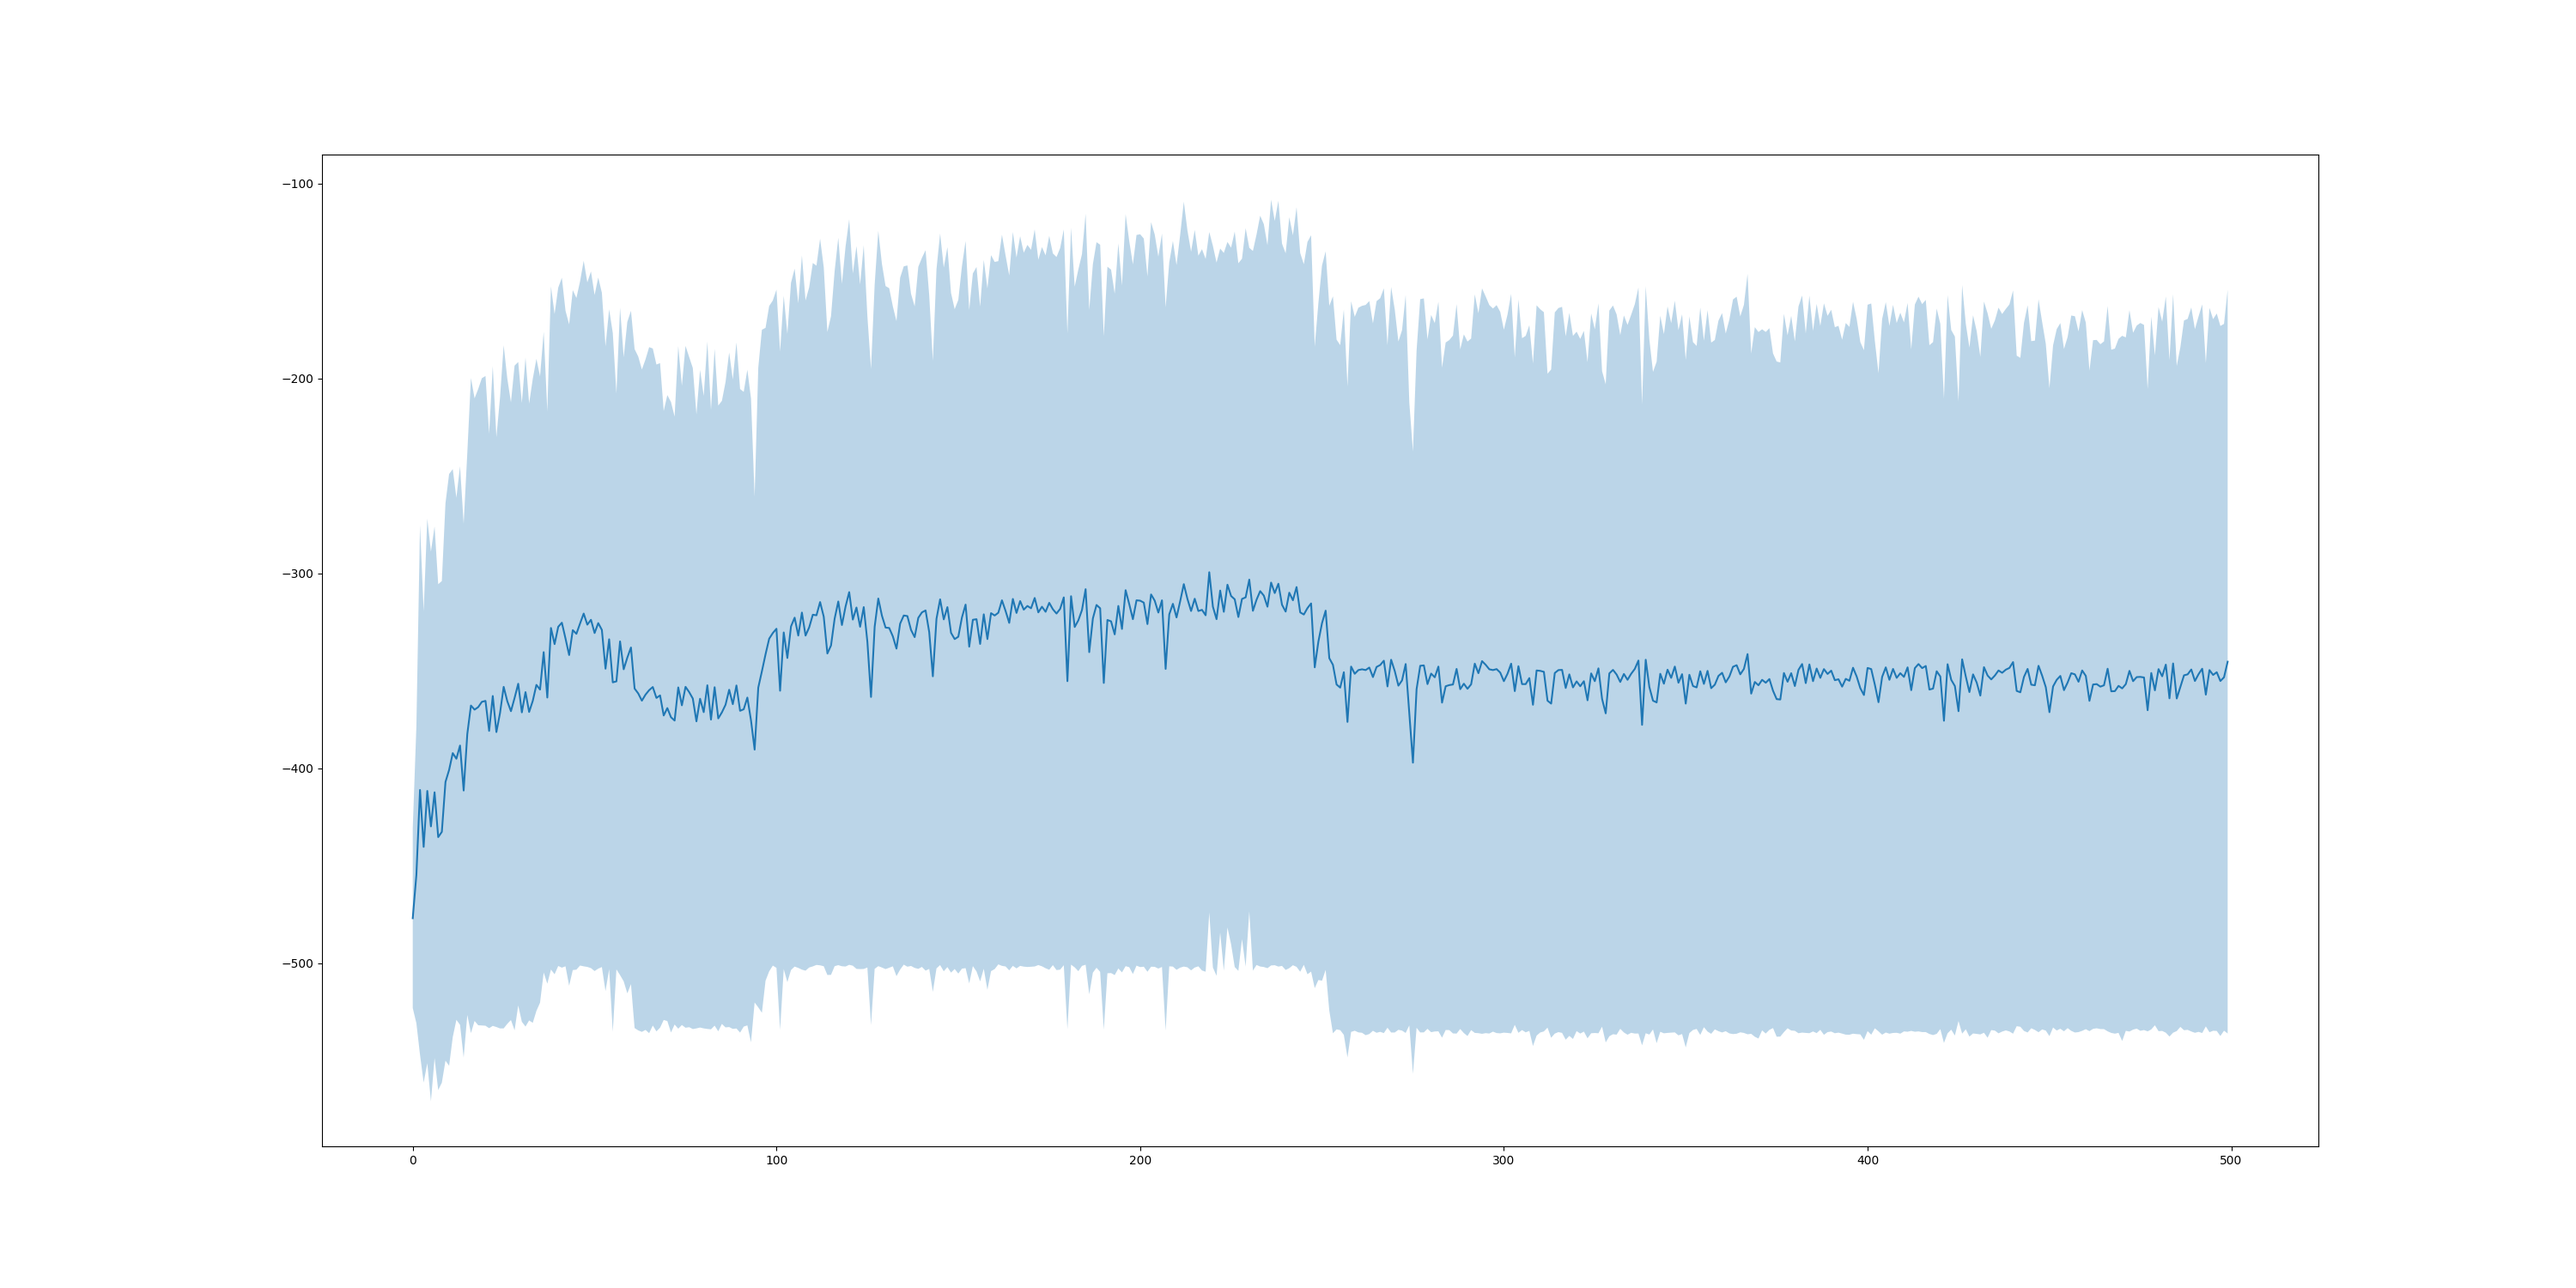
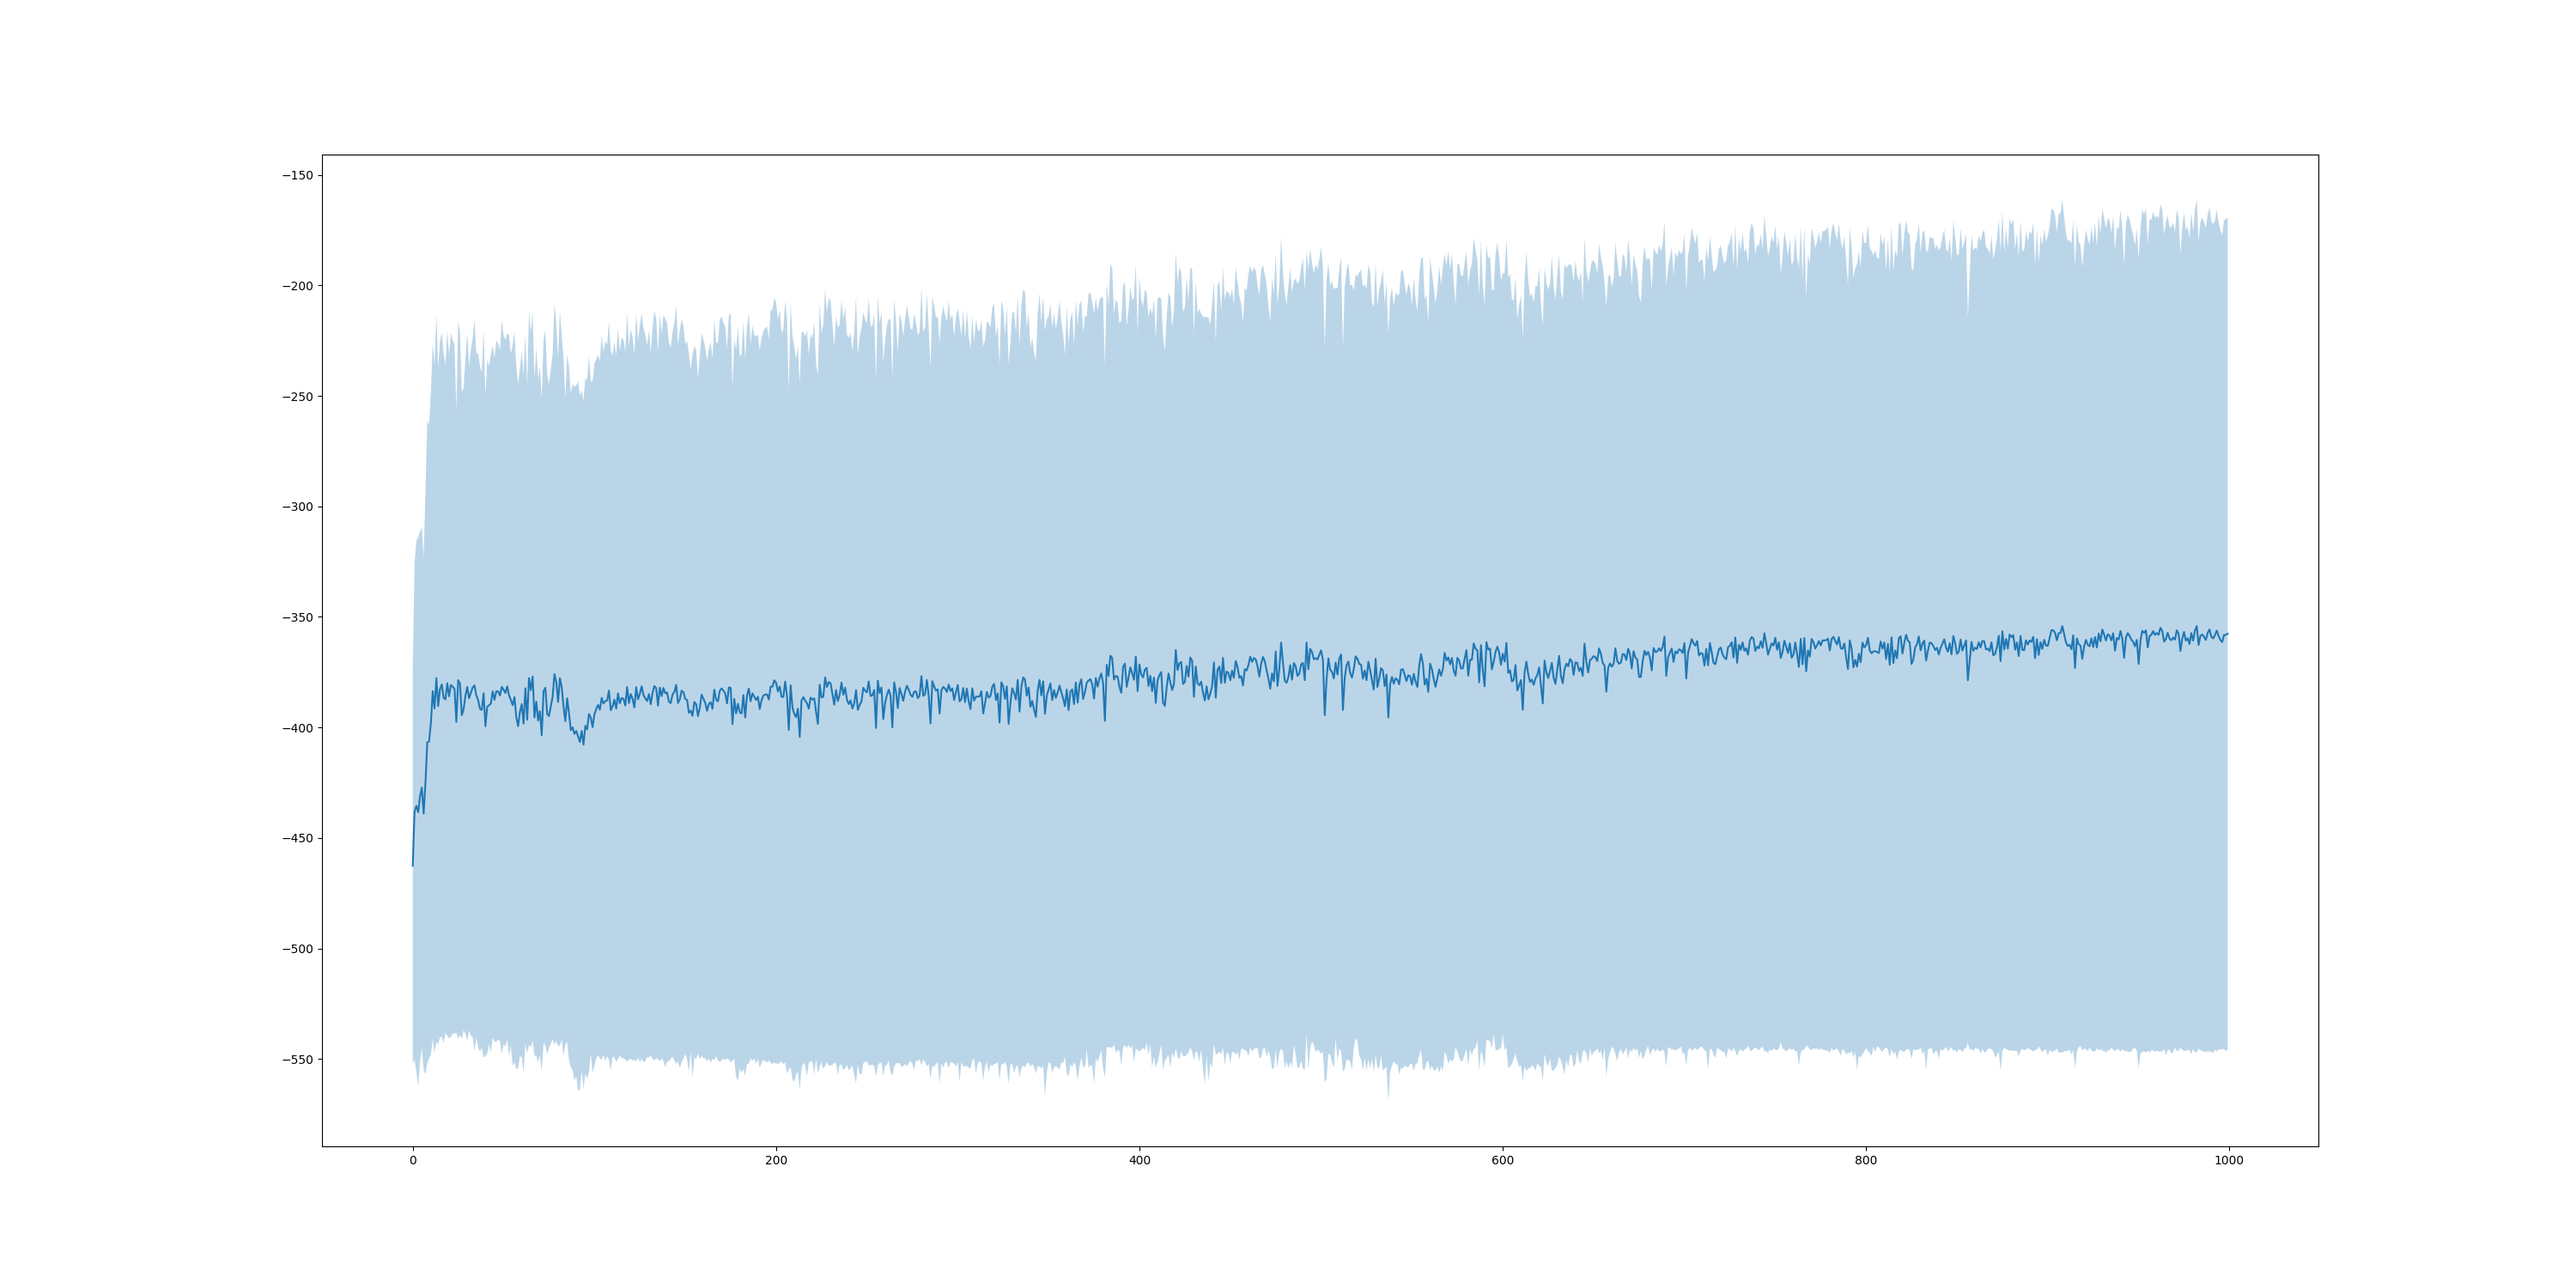
add multiprocessing

Changed region(s): [[0.155, 0.1533, 0.868, 0.46], [0.155, 0.46, 0.868, 0.644], [0.155, 0.736, 0.868, 0.8587]]

diff --git a/code/ac/ac value svrg.py b/code/ac/ac value svrg.py
@@ -1,9 +1,7 @@
 import argparse
-import gym
+import gymnasium as gym
 import numpy as np
-from itertools import count
 from collections import namedtuple, deque
-from IPython.display import clear_output
 import matplotlib.pyplot as plt
 import torch
 import torch.nn as nn
@@ -14,29 +12,35 @@ from torchviz import make_dot
 import time
 import random
 import os
-import wandb
 import math
+from multiprocessing import Pool
+
+parser = argparse.ArgumentParser()
+parser.add_argument('task', action='store')
+parser.add_argument('LR', action='store', type=float)
+parser.add_argument('groupsize', action='store', type=int)
+parser.add_argument('update', action='store', type=int)
+parser.add_argument('runs', action='store', type=int)
+args = parser.parse_args()
 
 # Cart Pole
 gamma = 0.95
 
-# taskname = 'CartPole-v1'
-taskname = 'Acrobot-v1'
-if taskname == 'Acrobot-v1':
-    displayname = 'acrobot'
-    LR = 1e-3
-elif taskname == 'CartPole-v1':
-    displayname = 'cartpole'
-    LR = 1e-2
+if args.task == 'acrobot':
+    taskname = 'Acrobot-v1'
+elif args.task == 'cartpole':
+    taskname = 'CartPole-v1'
+LR = args.LR
 
-env = gym.make(taskname)
+sample_env = gym.make(taskname)
 eps = np.finfo(np.float32).eps.item()
 
 # SavedAction works as a replay buffer
 SavedAction = namedtuple('SavedAction', ['s', 'v', 'a', 'log_p'])
 
-action_dim = env.action_space.n
-state_dim  = env.observation_space.shape[0]
+action_dim = sample_env.action_space.n
+state_dim  = sample_env.observation_space.shape[0]
+del sample_env
 
 random.seed(33)
 np.random.seed(33)
@@ -83,6 +87,8 @@ class Agent():
         self.latest_steps = []
         self.latest_rewards = []
         self.value_past_grad = []
+
+        self.env = gym.make(taskname)
 
     def select_action(self, state):
         state = torch.from_numpy(state).float()
@@ -195,13 +201,13 @@ def experiment(episodes=50, groupsize=20, update=30, lr=LR):
     for i_step in range(episodes):
         for j_episode in range(groupsize):
             # could change it to a decreasing number?
-            state, _ = env.reset()
+            state, _ = agent.env.reset()
             ep_reward = 0
 
             while True:
                 action = agent.select_action(state)
 
-                state, reward, term, trunc, _ = env.step(action)
+                state, reward, term, trunc, _ = agent.env.step(action)
                 done = term or trunc
                 agent.latest_rewards.append(reward)
                 ep_reward += reward
@@ -217,15 +223,17 @@ def experiment(episodes=50, groupsize=20, update=30, lr=LR):
     
 if __name__ == '__main__':
     # wandb.init(project="Comp579")
+    runs = args.runs
     all_rewards = []
-    total_episodes = 500
-    groupsize = 20
+    total_episodes = 1000
+    groupsize = args.groupsize
     episodes = int(math.ceil(total_episodes / groupsize))
-    update = 40
+    update = args.update
 
-    for k in range(10):
-        all_rewards.append(experiment(episodes, groupsize, update))
-    np.savetxt(f"ac value svrg {displayname} {groupsize} {update}.txt", np.array(all_rewards))
+    with Pool(processes=12) as p:
+        all_rewards = p.starmap(experiment, [(episodes, groupsize, update, LR)] * runs)
+
+    np.savetxt(f"ac value svrg {args.task} {groupsize} {update} {runs} lr={LR}.txt", np.array(all_rewards))
     
     mean = np.mean(all_rewards, axis=0)
     std = np.std(all_rewards, axis=0)
@@ -234,4 +242,4 @@ if __name__ == '__main__':
     plt.figure(figsize=(30, 15))
     plt.plot(mean)
     plt.fill_between(range(len(mean)), mean - std, mean + std, alpha=0.3)
-    plt.savefig(f'ac value svrg {displayname} {groupsize} {update}.png')
+    plt.savefig(f'ac value svrg {args.task} {groupsize} {update} {runs} lr={LR}.png')

diff --git a/code/ac/ac.py b/code/ac/ac.py
@@ -1,9 +1,7 @@
 import argparse
-import gym
+import gymnasium as gym
 import numpy as np
-from itertools import count
 from collections import namedtuple, deque
-from IPython.display import clear_output
 import matplotlib.pyplot as plt
 import torch
 import torch.nn as nn
@@ -12,31 +10,33 @@ import torch.optim as optim
 from torch.distributions import Categorical
 import random
 import os
-import time
-import wandb
 import math
+from multiprocessing import Pool
+
+parser = argparse.ArgumentParser()
+parser.add_argument('task', action='store')
+parser.add_argument('LR', action='store', type=float)
+parser.add_argument('runs', action='store', type=int)
+args = parser.parse_args()
 
 # Cart Pole
-
 gamma = 0.95
 
-# taskname = 'CartPole-v1'
-taskname = 'Acrobot-v1'
-if taskname == 'Acrobot-v1':
-    displayname = 'acrobot'
-    LR = 1e-3
-elif taskname == 'CartPole-v1':
-    displayname = 'cartpole'
-    LR = 1e-2
+if args.task == 'acrobot':
+    taskname = 'Acrobot-v1'
+elif args.task == 'cartpole':
+    taskname = 'CartPole-v1'
+LR = args.LR
 
 debug = False
 
-env = gym.make(taskname)
+sample_env = gym.make(taskname)
 eps = np.finfo(np.float32).eps.item()
 SavedAction = namedtuple('SavedAction', ['log_prob', 'value'])
 
-action_dim = env.action_space.n
-state_dim  = env.observation_space.shape[0]
+action_dim = sample_env.action_space.n
+state_dim  = sample_env.observation_space.shape[0]
+del sample_env
 
 if debug:
     random.seed(33)
@@ -81,6 +81,8 @@ class Agent():
 
         self.steps = []
         self.rewards = []
+
+        self.env = gym.make(taskname)
 
     def select_action(self, state):
         state = torch.from_numpy(state).float()
@@ -130,19 +132,19 @@ class Agent():
         self.rewards = []
         self.steps = []
 
-def experiment(episodes=500, lr=LR):
+def experiment(episodes=1000, lr=LR):
     agent = Agent()
     ep_rewards = []
 
     for i_episode in range(episodes):
-        state, _ = env.reset(seed=33)
+        state, _ = agent.env.reset(seed=33)
 
         ep_reward = 0
 
         while True:
             action = agent.select_action(state)
 
-            state, reward, term, trunc, _ = env.step(action)
+            state, reward, term, trunc, _ = agent.env.step(action)
             done = term or trunc
             agent.rewards.append(reward)
             ep_reward += reward
@@ -157,10 +159,13 @@ def experiment(episodes=500, lr=LR):
     
 if __name__ == '__main__':
     # wandb.init(project="Comp579")
+    runs = args.runs
     all_rewards = []
-    for k in range(10):
-        all_rewards.append(experiment())
-    np.savetxt(f"ac {displayname} lr={LR}.txt", np.array(all_rewards))
+
+    with Pool() as p:
+        all_rewards = p.starmap(experiment, [(1000, LR)] * runs)
+
+    np.savetxt(f"ac {args.task} {runs} lr={LR}.txt", np.array(all_rewards))
     
     mean = np.mean(all_rewards, axis=0)
     std = np.std(all_rewards, axis=0)
@@ -169,4 +174,4 @@ if __name__ == '__main__':
     plt.figure(figsize=(30, 15))
     plt.plot(mean)
     plt.fill_between(range(len(mean)), mean - std, mean + std, alpha=0.3)
-    plt.savefig(f'ac {displayname} lr={LR}.png')
+    plt.savefig(f'ac {args.task} {runs} lr={LR}.png')

diff --git a/code/ac/ac adam.py b/code/ac/ac adam.py
@@ -1,9 +1,7 @@
 import argparse
-import gym
+import gymnasium as gym
 import numpy as np
-from itertools import count
 from collections import namedtuple, deque
-from IPython.display import clear_output
 import matplotlib.pyplot as plt
 import torch
 import torch.nn as nn
@@ -13,30 +11,33 @@ from torch.distributions import Categorical
 import random
 import os
 import time
-import wandb
 import math
+from multiprocessing import Pool
+
+parser = argparse.ArgumentParser()
+parser.add_argument('task', action='store')
+parser.add_argument('LR', action='store', type=float)
+parser.add_argument('runs', action='store', type=int)
+args = parser.parse_args()
 
 # Cart Pole
-
 gamma = 0.95
 
-# taskname = 'CartPole-v1'
-taskname = 'Acrobot-v1'
-if taskname == 'Acrobot-v1':
-    displayname = 'acrobot'
-    LR = 1e-3
-elif taskname == 'CartPole-v1':
-    displayname = 'cartpole'
-    LR = 1e-2
+if args.task == 'acrobot':
+    taskname = 'Acrobot-v1'
+elif args.task == 'cartpole':
+    taskname = 'CartPole-v1'
+LR = args.LR
 
 debug = False
 
-env = gym.make(taskname)
+sample_env = gym.make(taskname)
 eps = np.finfo(np.float32).eps.item()
 SavedAction = namedtuple('SavedAction', ['log_prob', 'value'])
 
-action_dim = env.action_space.n
-state_dim  = env.observation_space.shape[0]
+action_dim = sample_env.action_space.n
+state_dim  = sample_env.observation_space.shape[0]
+del sample_env
 
 if debug:
     random.seed(33)
@@ -81,6 +82,8 @@ class Agent():
 
         self.steps = []
         self.rewards = []
+
+        self.env = gym.make(taskname)
 
     def select_action(self, state):
         state = torch.from_numpy(state).float()
@@ -135,14 +138,14 @@ def experiment(episodes=1000, lr=LR):
     ep_rewards = []
 
     for i_episode in range(episodes):
-        state, _ = env.reset(seed=33)
+        state, _ = agent.env.reset(seed=33)
 
         ep_reward = 0
 
         while True:
             action = agent.select_action(state)
 
-            state, reward, term, trunc, _ = env.step(action)
+            state, reward, term, trunc, _ = agent.env.step(action)
             done = term or trunc
             agent.rewards.append(reward)
             ep_reward += reward
@@ -157,10 +160,13 @@ def experiment(episodes=1000, lr=LR):
     
 if __name__ == '__main__':
     # wandb.init(project="Comp579")
+    runs = args.runs
     all_rewards = []
-    for k in range(10):
-        all_rewards.append(experiment(1000))
-    np.savetxt(f"ac ADAM {displayname} lr={LR}.txt", np.array(all_rewards))
+    
+    with Pool() as p:
+        all_rewards = p.starmap(experiment, [(1000, LR)] * runs)
+
+    np.savetxt(f"ac ADAM {args.task} {runs} lr={LR}.txt", np.array(all_rewards))
     
     mean = np.mean(all_rewards, axis=0)
     std = np.std(all_rewards, axis=0)
@@ -169,4 +175,4 @@ if __name__ == '__main__':
     plt.figure(figsize=(30, 15))
     plt.plot(mean)
     plt.fill_between(range(len(mean)), mean - std, mean + std, alpha=0.3)
-    plt.savefig(f'ac ADAM {displayname} lr={LR}.png')
+    plt.savefig(f'ac ADAM {args.task} {runs} lr={LR}.png')

diff --git a/code/mix.py b/code/mix.py
@@ -21,20 +21,17 @@ To avoid reruning the code for multiple times,
 we save the rewards of different models as .txt files and generate the plot here.
 '''
 
-task = 'cartpole' # cartpole, acrobot
+task = 'acrobot' # cartpole, acrobot
 algo = 'ac' # ac, ac value svrg
 groupsize = 20
-update = 30
-
-if task == 'acrobot':
-    LR = 1e-4
-elif task == 'cartpole':
-    LR = 1e-3
+update = 40
+runs = 10
+LR = '1e-4'
 
 if __name__ == '__main__':
-    ac = np.loadtxt(f"data\\{task}\\ac\\ac {task}.txt")
-    adam = np.loadtxt(f"data\\{task}\\ADAM\\ac ADAM {task}.txt")
-    ac_value_svrg = np.loadtxt(f"data\\{task}\\groupsize={groupsize}\\ac value svrg {groupsize} {update} {task}.txt")
+    ac = np.loadtxt(f"data\\{task}\\lr={LR}\\ac\\ac {task} {runs} lr={LR}.txt")
+    adam = np.loadtxt(f"data\\{task}\\lr={LR}\\ADAM\\ac ADAM {task} {runs} lr={LR}.txt")
+    ac_value_svrg = np.loadtxt(f"data\\{task}\\lr={LR}\\groupsize={groupsize}\\ac value svrg {task} {groupsize} {update} {runs} lr={LR}.txt")
     plt.figure(figsize=(10, 5))
 
     ac_mean = np.mean(ac, axis=0)
@@ -57,4 +54,4 @@ if __name__ == '__main__':
     
     plt.xlabel(f"AC vs. AC with SVRG on function value approximation (group size {groupsize}) on {task.capitalize()} task, lr = {LR}")
     plt.legend()
-    plt.savefig(f"ac vs svrg {task} groupsize={groupsize} vs ADAM.png")
+    plt.savefig(f"ac vs svrg {task} groupsize={groupsize} vs ADAM lr={LR}.png")
